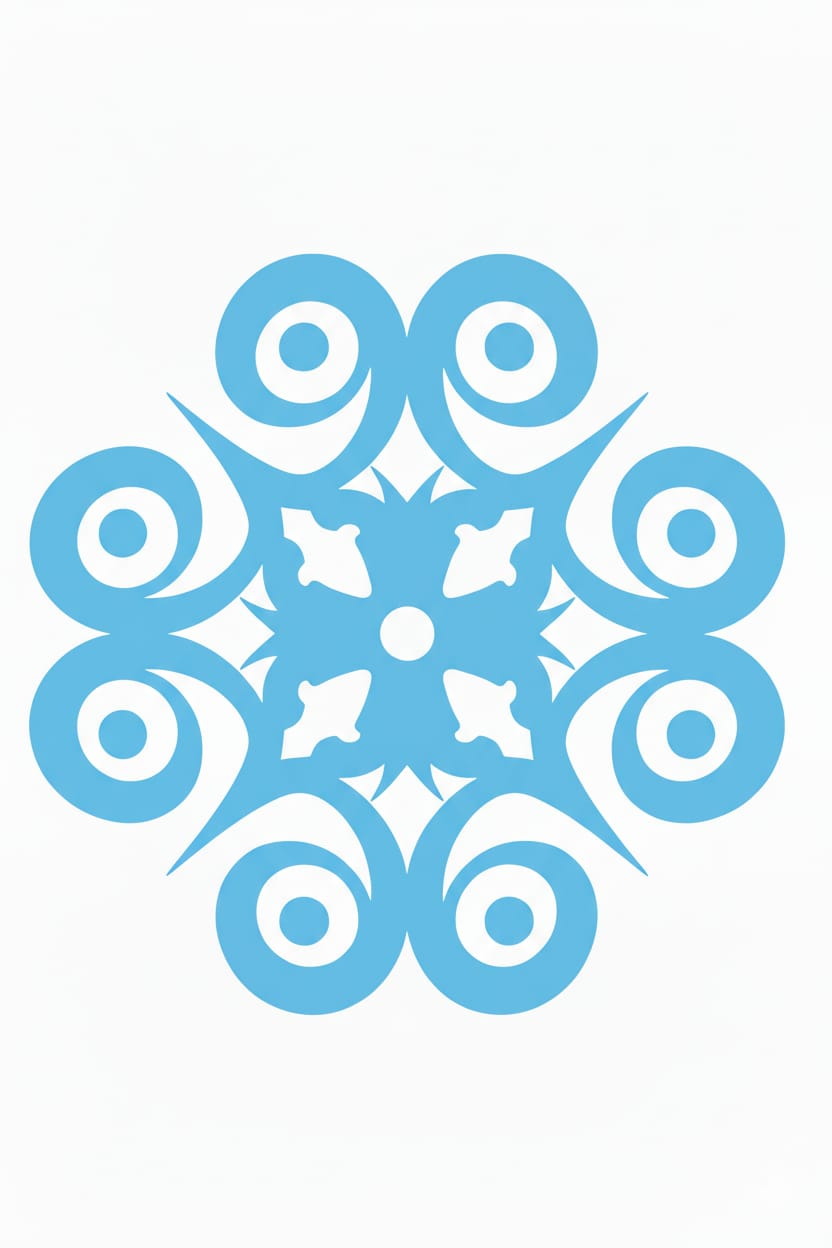
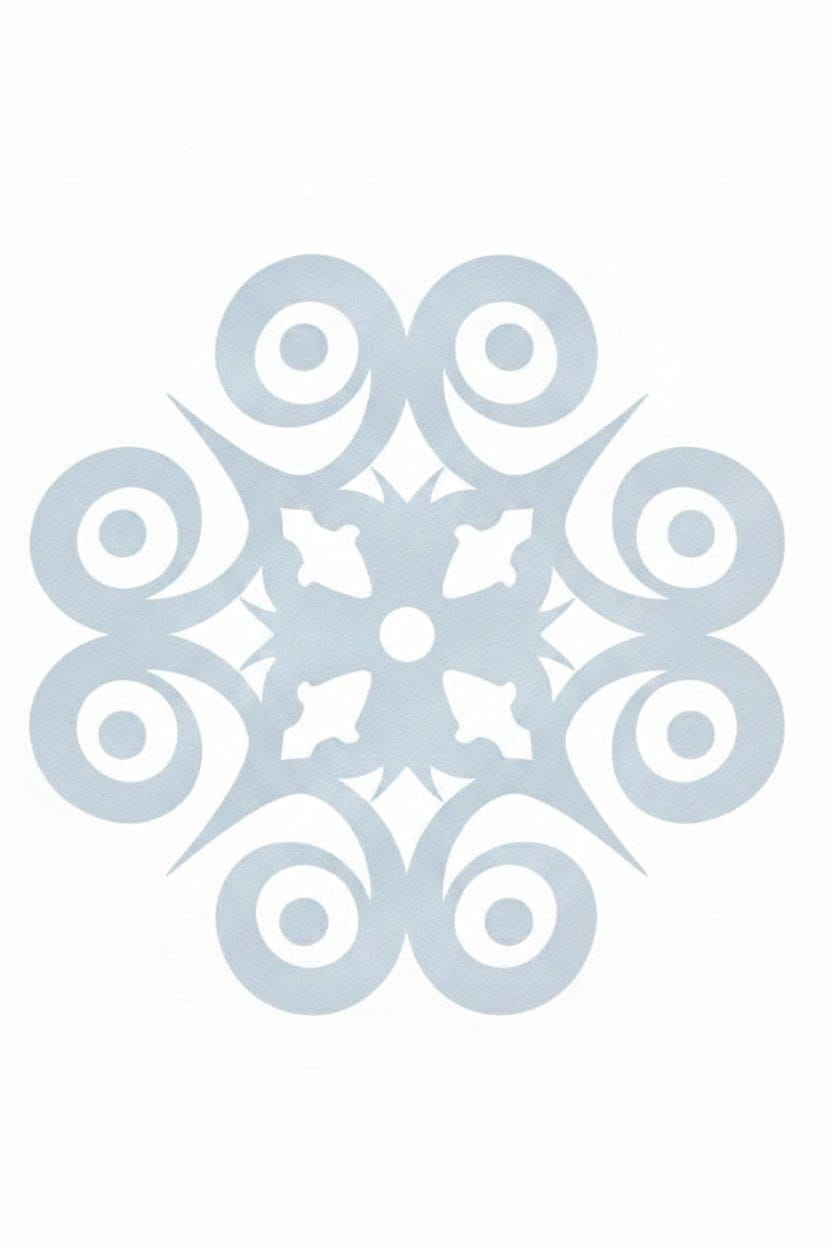
upgrade texts

Changed region(s): [[0.0312, 0.1875, 0.9688, 0.8125], [0.75, 0.6875, 0.7812, 0.7188], [0.1875, 0.6875, 0.2188, 0.7188]]

diff --git a/about.html b/about.html
@@ -74,15 +74,16 @@ body{
 <body>
 
 <section class="hero">
-  <h1>О платформе</h1>
-  <p>Открывай локальные бренды и поддерживай экономику Казахстана.</p>
+  <h1>Покупайте казахстанское</h1>
+  <p>Натуральные продукты, уникальные рецепты, ремесленные бренды и качественные изделия — всё, что мы любим и чем можем гордиться</p>
 </section>
 
 <div class="circle-buttons">
 
 <a href="fashion.html" class="circle-item">
 <div class="circle"></div>
-<div class="circle-label">МОДА</div>
+<div class="circle-label">ОДЕЖДА
+</div>
 </a>
 
 <a href="tech.html" class="circle-item">
@@ -105,7 +106,7 @@ body{
 <div class="circle-label">ДОМ</div>
 </a>
 
-<a href="home.html" class="circle-item">
+<a href="beauty.html" class="circle-item">
 <div class="circle"></div>
 <div class="circle-label">ЗДОРОВЬЕ</div>
 </a>
@@ -113,7 +114,7 @@ body{
 </div>
 
 <div class="section">
-  Единая среда, где бренды, эксперты и инструменты взаимодействуют для сотрудничества и развития.
+  Продукты питания, стильная одежда, косметика, аксессуары, товары для дома и многое другое — всё сделано с душой и гордостью в Казахстане
 </div>
 
 </body>

diff --git a/index.html b/index.html
@@ -131,7 +131,7 @@ body {
   </div>
 
   <div class="text-content">
-    <h1>Добро пожаловать в мир казахстанских брендов</h1>
+    <h1>Добро пожаловать на платформу, где вы найдете самые лучшие бренды Казахстана</h1>
 
     <p>
       Платформа объединяет локальных производителей и помогает
